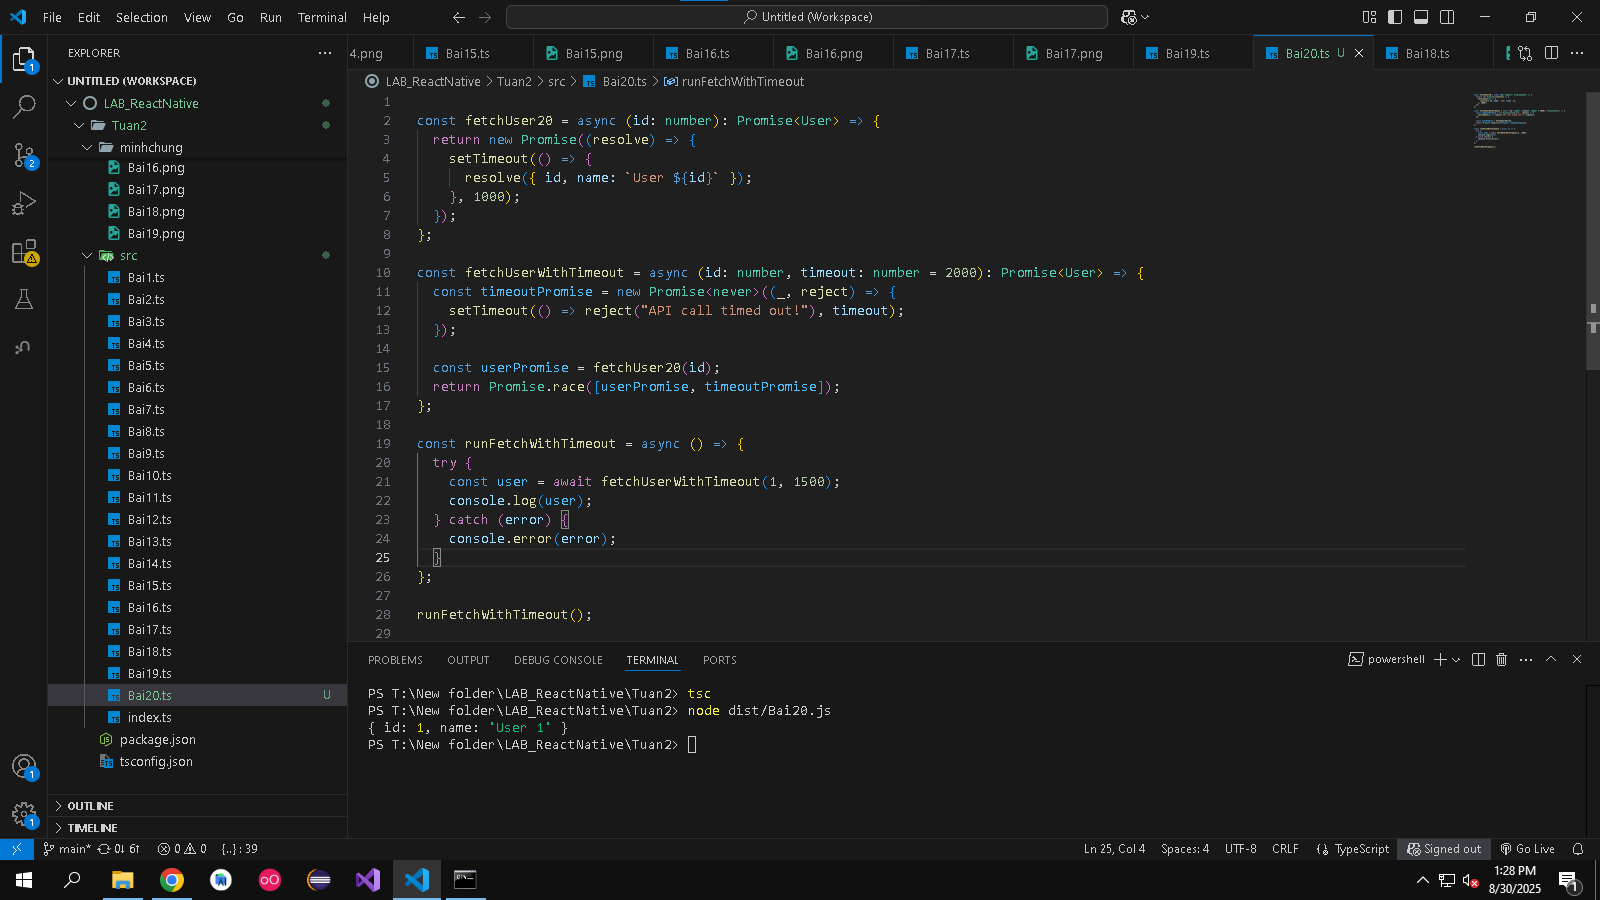
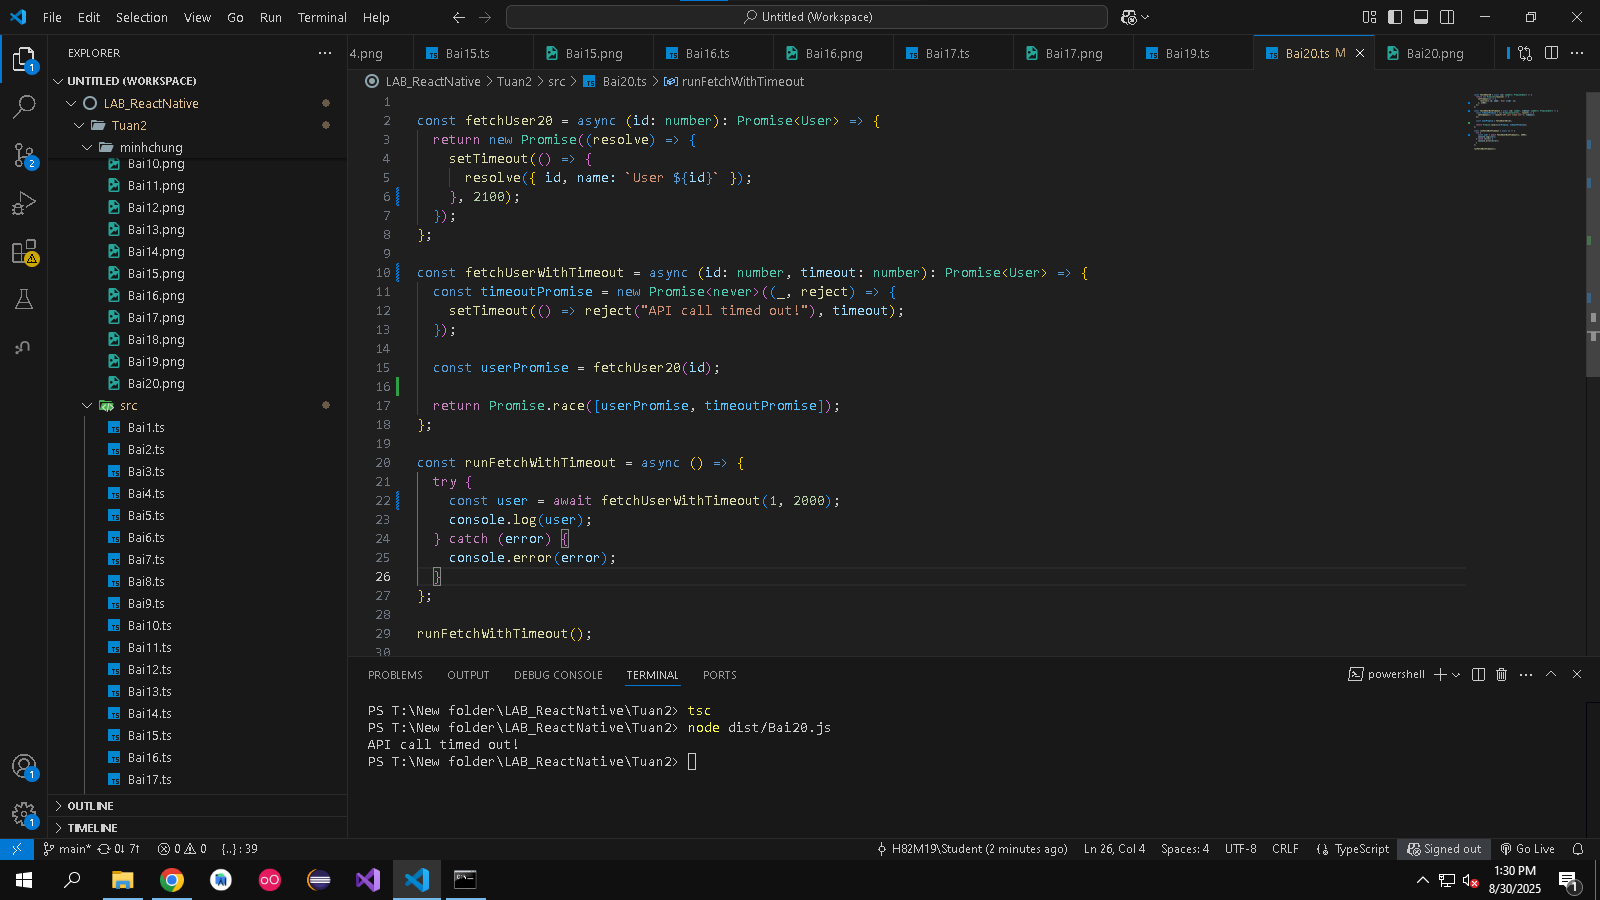
modified bai 20

diff --git a/Tuan2/src/Bai20.ts b/Tuan2/src/Bai20.ts
@@ -3,22 +3,23 @@ const fetchUser20 = async (id: number): Promise<User> => {
   return new Promise((resolve) => {
     setTimeout(() => {
       resolve({ id, name: `User ${id}` });
-    }, 1000);
+    }, 2100);
   });
 };
 
-const fetchUserWithTimeout = async (id: number, timeout: number = 2000): Promise<User> => {
+const fetchUserWithTimeout = async (id: number, timeout: number): Promise<User> => {
   const timeoutPromise = new Promise<never>((_, reject) => {
     setTimeout(() => reject("API call timed out!"), timeout);
   });
 
   const userPromise = fetchUser20(id);
+  
   return Promise.race([userPromise, timeoutPromise]);
 };
 
 const runFetchWithTimeout = async () => {
   try {
-    const user = await fetchUserWithTimeout(1, 1500);
+    const user = await fetchUserWithTimeout(1, 2000);
     console.log(user);
   } catch (error) {
     console.error(error); 

diff --git a/Tuan2/dist/Bai20.js b/Tuan2/dist/Bai20.js
@@ -3,10 +3,10 @@ const fetchUser20 = async (id) => {
     return new Promise((resolve) => {
         setTimeout(() => {
             resolve({ id, name: `User ${id}` });
-        }, 1000);
+        }, 2100);
     });
 };
-const fetchUserWithTimeout = async (id, timeout = 2000) => {
+const fetchUserWithTimeout = async (id, timeout) => {
     const timeoutPromise = new Promise((_, reject) => {
         setTimeout(() => reject("API call timed out!"), timeout);
     });
@@ -15,7 +15,7 @@ const fetchUserWithTimeout = async (id, timeout = 2000) => {
 };
 const runFetchWithTimeout = async () => {
     try {
-        const user = await fetchUserWithTimeout(1, 1500);
+        const user = await fetchUserWithTimeout(1, 2000);
         console.log(user);
     }
     catch (error) {
